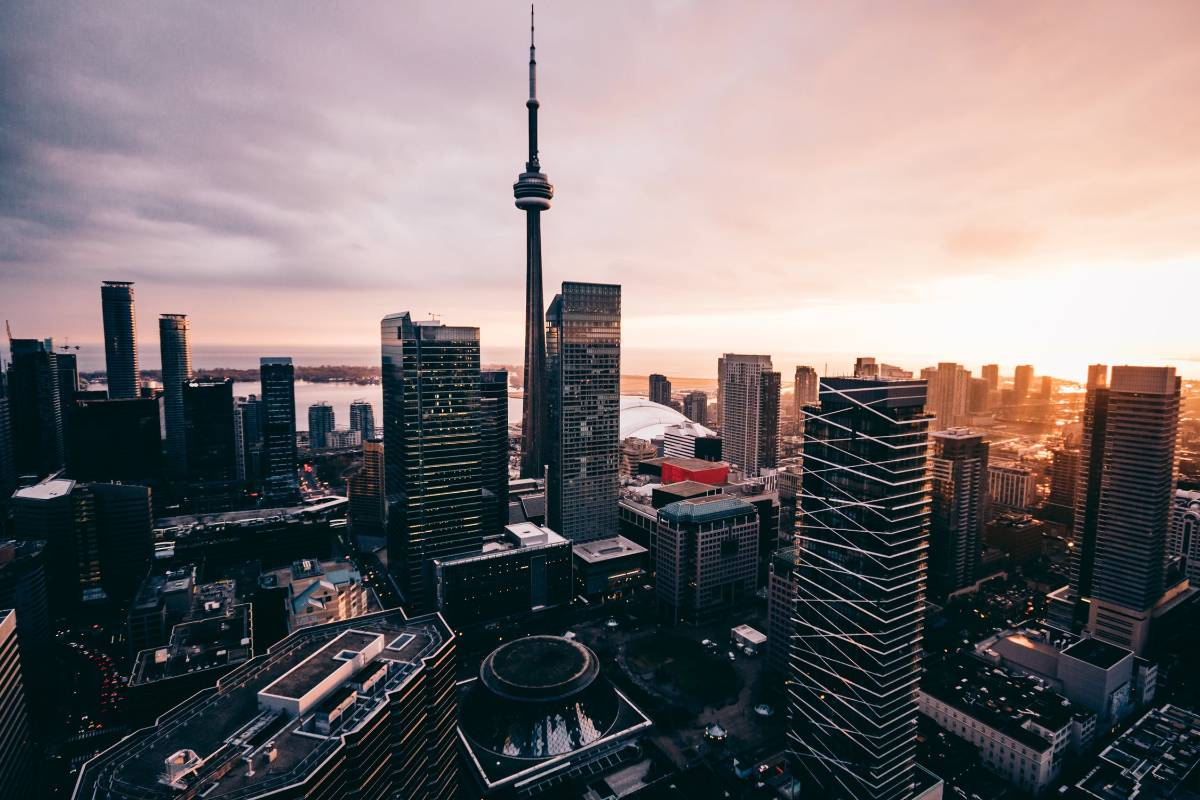
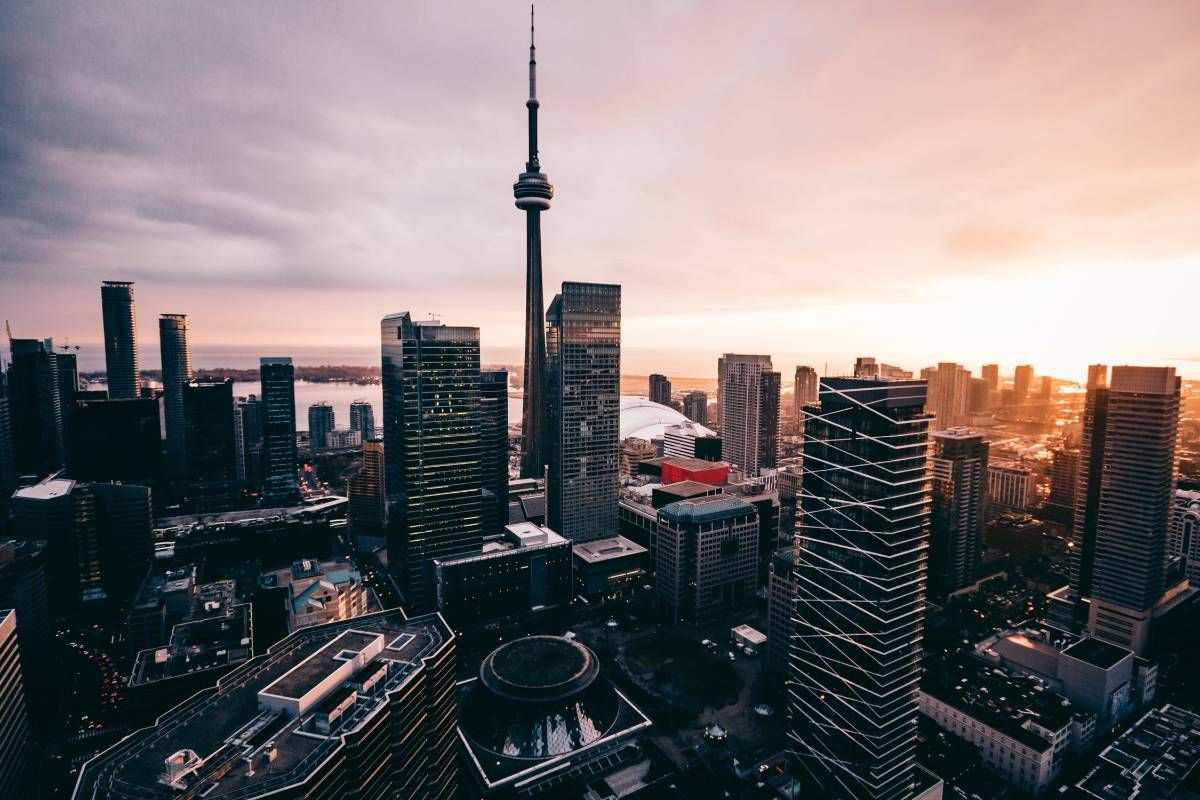
compressed and progressive jpgs

diff --git a/admin/util.js b/admin/util.js
@@ -115,3 +115,26 @@ module.exports.syncThemeSettings = (client, newSettings, authorization) => {
             return Promise.all([promises, updatePromises]);
         });
 };
+
+// A utility function to convert all jpeg images in uploads folder to progressive jpeg images
+// const optimizeImage = function() {
+//     const sharp = require("sharp");
+//     const fs = require("fs");
+//     const path = require("path");
+//     const imageFolder = path.join(__dirname, "../public/uploads");
+//     const files = fs.readdirSync(imageFolder);
+//     for (var i in files) {
+//         let file = files[i];
+//         if (file.indexOf("loading.jpg") >= 0) {
+//             let image = imageFolder + "/" + file;
+//             let saveImage = imageFolder + "/pjpeg/" + file;
+//             sharp(image)
+//                 .jpeg({ progressive: true })
+//                 .toFile(saveImage, (err, info) => {
+//                     console.log("err: ", err);
+//                     console.log("info: ", info);
+//                 });
+//         }
+//     }
+// };
+// optimizeImage();

diff --git a/api/utils/customStorage.js b/api/utils/customStorage.js
@@ -20,9 +20,9 @@ customStorage.prototype._handleFile = function _handleFile(req, file, cb) {
                 .resize(1200, 800)
                 .background("transparent")
                 .embed()
-                .jpeg({ quality: 65 });
+                .jpeg({ quality: 65, progressive: true });
         } else if (req.body.type == "post_image") {
-            transform = transform.jpeg({ quality: 65 });
+            transform = transform.jpeg({ quality: 65, progressive: true });
         }
 
         file.stream.pipe(transform).pipe(outStream);

diff --git a/shared/data-connectors/PostsData.js b/shared/data-connectors/PostsData.js
@@ -13,8 +13,7 @@ export default graphql(CAT_POSTS, {
                 postType: "post",
                 limit: props.limit || config.itemsPerPage,
                 offset: props.offset || offset || 0
-            },
-            fetchPolicy: "network-only"
+            }
         };
     },
     props: ({ data: { loading, postsMenu, fetchMore } }) => {
